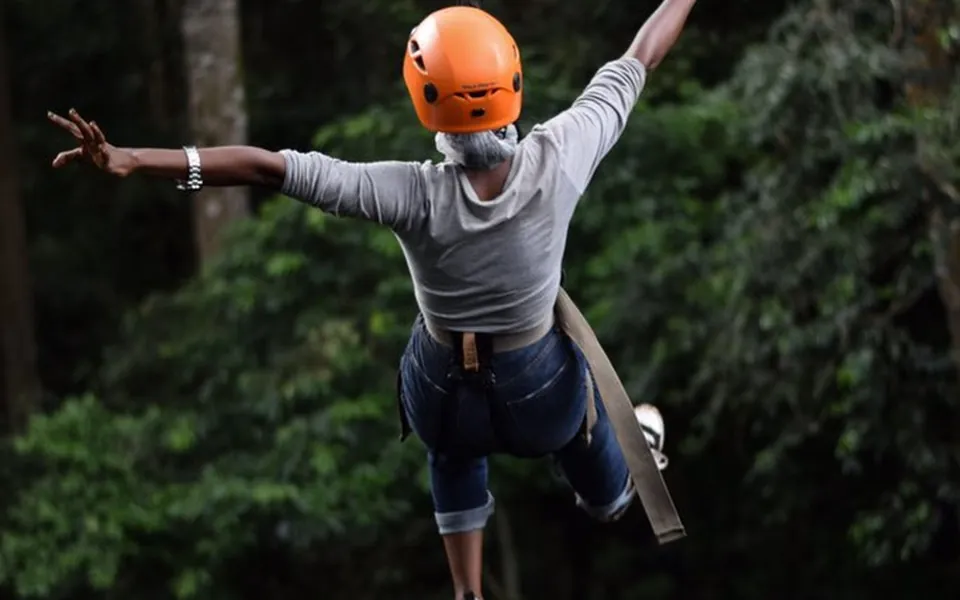
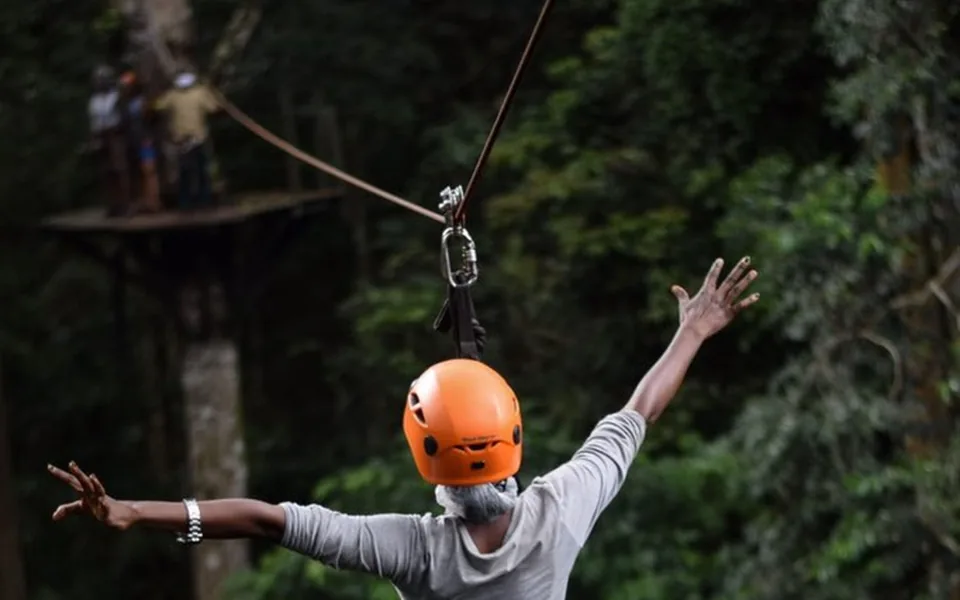
Adventure: re-crop the Ella zip line photo from the original so the cable, carabiner and rider are all in frame; keep the top in view on short screens

diff --git a/lib/adventure-data.ts b/lib/adventure-data.ts
@@ -32,6 +32,8 @@ export interface Adventure {
   image?: string
   /** Alt text for the photo. */
   imageAlt?: string
+  /** CSS `object-position` for the photo when the frame crops it (default: centred). */
+  imagePosition?: string
 }
 
 export const ADVENTURE_ZONES: { id: AdventureZone; label: string }[] = [
@@ -78,6 +80,7 @@ export const ADVENTURES: Adventure[] = [
     icon: 'zipline',
     image: '/images/adventure-ella-zip-line',
     imageAlt: 'A rider in an orange helmet gliding along a zip line above the forest',
+    imagePosition: '50% 12%', // keep the cable and carabiner in frame when the box is wide and short
   },
   {
     number: '03',

diff --git a/components/destinations/adventure-panel.tsx b/components/destinations/adventure-panel.tsx
@@ -28,6 +28,7 @@ export function AdventurePanel({ adventure }: { adventure: Adventure }) {
               width={1600}
               height={1000}
               alt={adventure.imageAlt ?? adventure.title}
+              style={adventure.imagePosition ? { objectPosition: adventure.imagePosition } : undefined}
               loading="lazy"
               decoding="async"
             />
